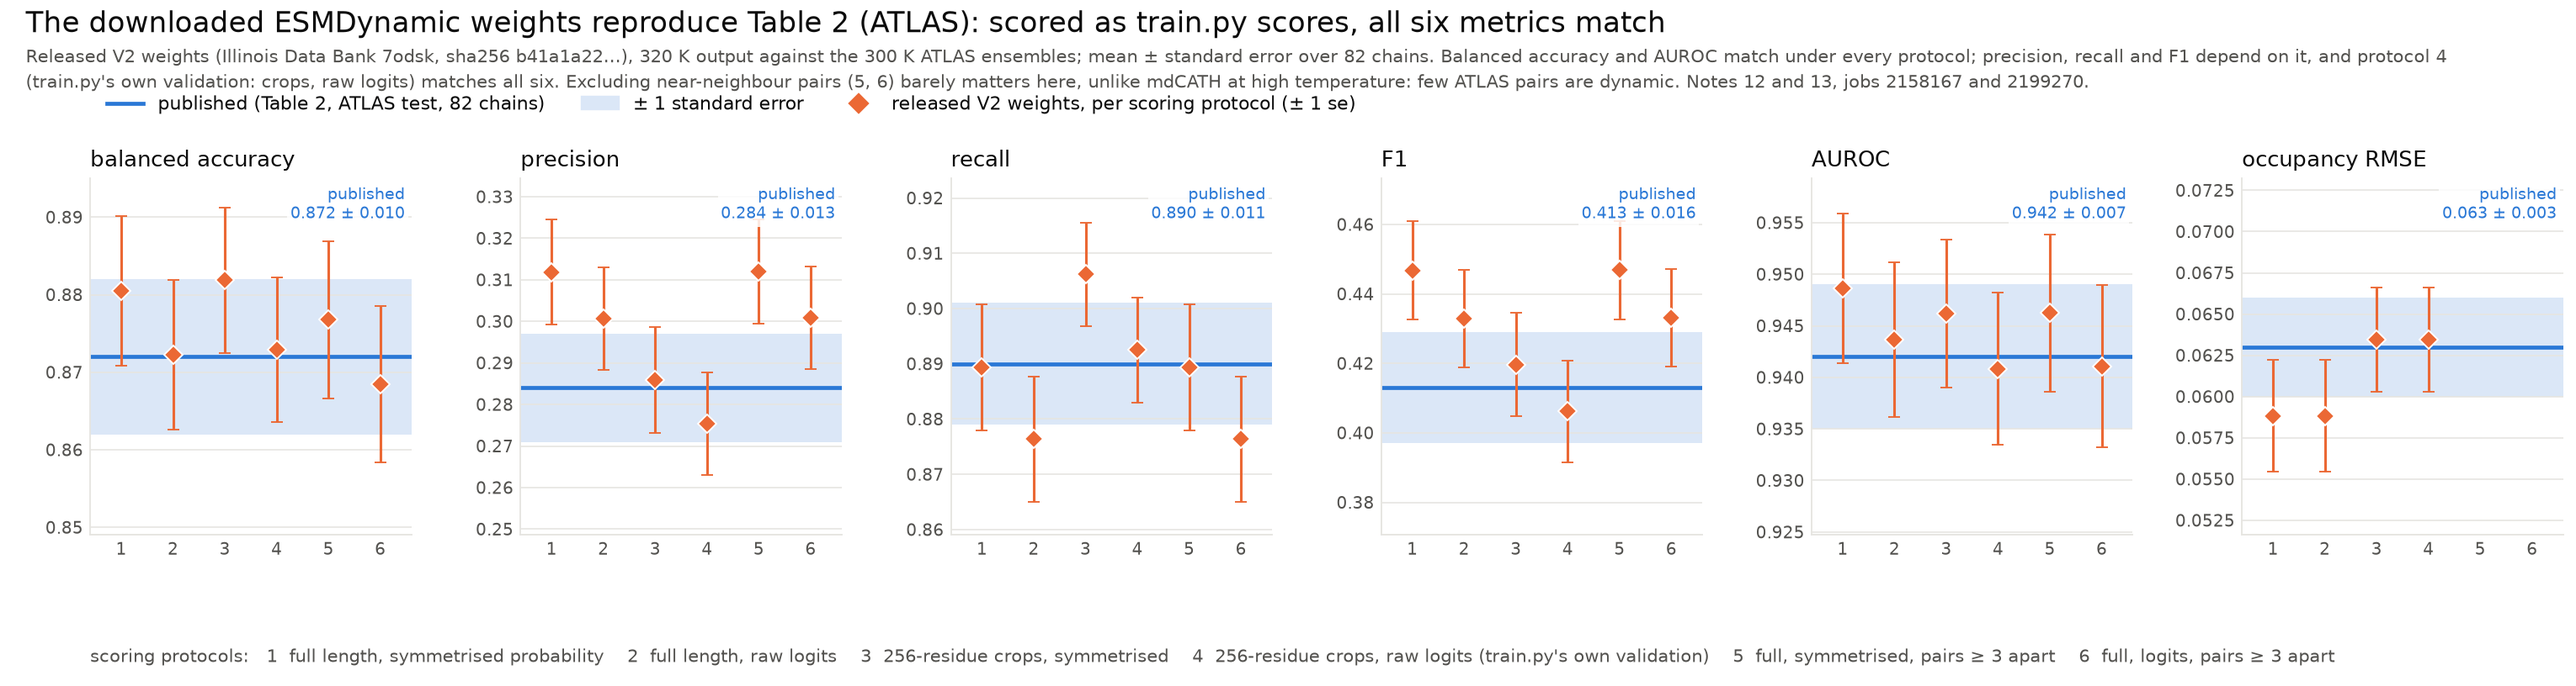
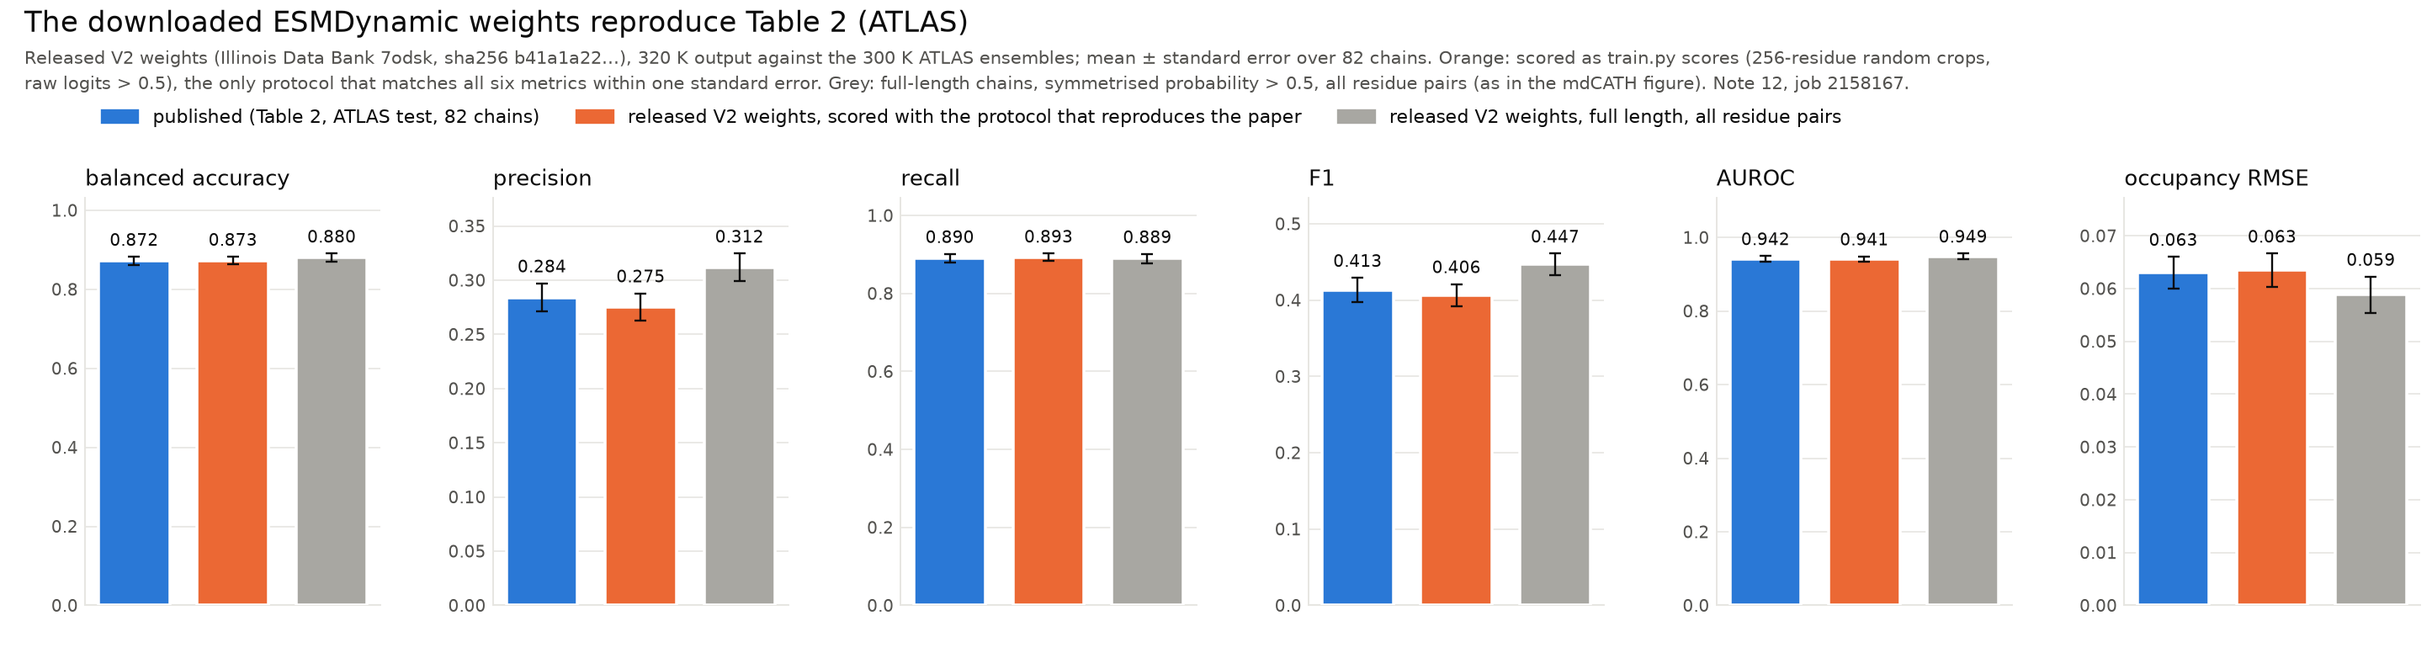
investigation: ATLAS figure as bars, same colours as the mdCATH figure

diff --git a/investigation/scripts/plot_atlas_table2_reproduction.py b/investigation/scripts/plot_atlas_table2_reproduction.py
@@ -1,78 +1,61 @@
-"""Figure: the released V2 weights reproduce Table 2 (ATLAS test, 82 chains) under every scoring protocol.
+"""Figure: the released V2 weights reproduce Table 2 (ATLAS test, 82 chains).
 
     python investigation/scripts/plot_atlas_table2_reproduction.py
         [--out investigation/figures/reproduction/13_atlas_table2_reproduction.png]
 
-ATLAS has one MD temperature (300 K; scored against the model's 320 K output), so instead of
-temperature the x-axis is the scoring protocol. Each panel: the published value as a band
-(± 1 se), the released weights under each protocol as points (± 1 se):
+Bars per Table 2 metric, in the same colours as the mdCATH figure
+(plot_si_table6_reproduction.py):
 
-  full / sym           whole chain, symmetrised probability > 0.5, all residue pairs
-  full / logits        whole chain, sigmoid of the unsymmetrised logits > 0.5
-  crop / sym, logits   train.py's 256-residue random crop (5 draws per long chain)
-  full / sym, ≥3       whole chain, pairs |i - j| >= 3 (the mdCATH SI Table 6 protocol, note 13)
-  full / logits, ≥3
+  blue    published, Table 2
+  orange  released weights, scored with the protocol that reproduces the paper. For ATLAS that is
+          train.py's own validation scoring: 256-residue random crops (5 draws per long chain),
+          sigmoid of the unsymmetrised logits > 0.5, all pairs of the crop -- the only protocol
+          that matches all six metrics (note 12)
+  grey    released weights, full-length chains, symmetrised probability > 0.5, all residue pairs
+          (the same definition as the mdCATH figure's grey line)
 
-From results/12_eval_protocol_atlas.json (note 12, job 2158167) and
-results/13_eval_pairset_atlas.json (note 13, job 2199270). The pair-set runs did not score
-occupancy RMSE, so that panel has the first four protocols only.
+Mean ± standard error over the 82 chains; 320 K output against the 300 K ATLAS ensembles.
+From results/12_eval_protocol_atlas.json (note 12, job 2158167).
 """
 import argparse
 import json
 from pathlib import Path
 
 INK, INK_2, MUTED, GRID = "#0b0b0b", "#52514e", "#8a8985", "#e6e5e1"
-PUB, OURS, PUB_BAND = "#2a78d6", "#eb6834", "#dbe7f7"
+PUB, OURS, ALL = "#2a78d6", "#eb6834", "#a8a7a2"     # as in the mdCATH figure
 METRICS = [("bal_acc", "balanced accuracy"), ("precision", "precision"), ("recall", "recall"),
            ("f1", "F1"), ("auroc", "AUROC"), ("rmse", "occupancy RMSE")]
-PROTOCOLS = [  # label, file, key
-    ("1", "12", "full/sym/320K"),
-    ("2", "12", "full/unsym/320K"),
-    ("3", "12", "crop256/sym/320K"),
-    ("4", "12", "crop256/unsym/320K"),
-    ("5", "13", "sym/k3/320K"),
-    ("6", "13", "unsym/k3/320K"),
-]
 
 
 def main():
     ap = argparse.ArgumentParser(description=__doc__.split("\n")[0])
-    ap.add_argument("--results", default="investigation/results")
+    ap.add_argument("--results", default="investigation/results/12_eval_protocol_atlas.json")
     ap.add_argument("--out", default="investigation/figures/reproduction/13_atlas_table2_reproduction.png")
     args = ap.parse_args()
-    res = Path(args.results)
-    r12 = json.loads((res / "12_eval_protocol_atlas.json").read_text())
-    r13 = json.loads((res / "13_eval_pairset_atlas.json").read_text())
-    src = {"12": r12["summary"], "13": r13["summary"]}
-    pub = r12["published"]["320"]
+    r = json.loads(Path(args.results).read_text())
+    pub = r["published"]["320"]
+    paper_protocol = r["summary"]["crop256/unsym/320K"]
+    all_pairs = r["summary"]["full/sym/320K"]
 
     import matplotlib
     matplotlib.use("Agg")
     import matplotlib.pyplot as plt
 
-    fig, axes = plt.subplots(1, 6, figsize=(18, 4.8), facecolor="white")
-    fig.subplots_adjust(top=0.74, bottom=0.22, left=0.035, right=0.995, wspace=0.34)
+    fig, axes = plt.subplots(1, 6, figsize=(17, 4.6), facecolor="white")
+    fig.subplots_adjust(top=0.70, bottom=0.08, left=0.035, right=0.995, wspace=0.38)
+    series = [(PUB, lambda m: tuple(pub[m])),
+              (OURS, lambda m: (paper_protocol[m]["mean"], paper_protocol[m]["se"])),
+              (ALL, lambda m: (all_pairs[m]["mean"], all_pairs[m]["se"]))]
     for ax, (m, title) in zip(axes, METRICS):
-        pm, ps = pub[m]
-        ax.axhspan(pm - ps, pm + ps, color=PUB_BAND, zorder=0, lw=0)
-        ax.axhline(pm, color=PUB, lw=2, zorder=1)
-        xs, ys = [], []
-        for i, (lab, f, key) in enumerate(PROTOCOLS):
-            cell = src[f].get(key, {}).get(m)
-            if cell is None:
-                continue
-            ax.errorbar(i, cell["mean"], yerr=cell["se"], color=OURS, marker="D", ms=6.5, lw=0,
-                        elinewidth=1.3, capsize=3, mec="white", mew=0.8, zorder=3)
-            xs.append(i); ys.append(cell["mean"])
-        ax.set_xticks(range(len(PROTOCOLS)))
-        ax.set_xticklabels([p[0] for p in PROTOCOLS], fontsize=9.5, color=INK, rotation=0)
-        ax.set_xlim(-0.6, len(PROTOCOLS) - 0.4)
-        lo, hi = min(ys + [pm - ps]), max(ys + [pm + ps])
-        pad = (hi - lo) * 0.45 + 0.004
-        ax.set_ylim(lo - pad, hi + pad)
+        vals = [get(m) for _, get in series]
+        top = max(v + se for v, se in vals)
+        for i, ((col, _), (v, se)) in enumerate(zip(series, vals)):
+            ax.bar(i, v, width=0.72, color=col, zorder=3, edgecolor="white", linewidth=1.5)
+            ax.errorbar(i, v, yerr=se, color=INK, capsize=3, elinewidth=1, zorder=4)
+            ax.text(i, v + se + top * 0.02, f"{v:.3f}", ha="center", va="bottom", fontsize=8.6, color=INK)
+        ax.set_ylim(0, top * 1.16)
+        ax.set_xticks([])
         ax.set_title(title, loc="left", fontsize=11, color=INK)
-        ax.text(0.98, 0.98, f"published\n{pm:.3f} ± {ps:.3f}", transform=ax.transAxes, fontsize=8, color=PUB,
-                va="top", ha="right", bbox=dict(fc="white", ec="none", alpha=0.85, pad=1.5))
         ax.grid(axis="y", color=GRID, lw=0.7, zorder=0)
         ax.set_axisbelow(True)
         for side in ("top", "right"):
@@ -80,26 +63,17 @@ def main():
         for side in ("left", "bottom"):
             ax.spines[side].set_color(GRID)
         ax.tick_params(colors=INK_2, labelsize=8.3, length=0)
-    from matplotlib.lines import Line2D
     from matplotlib.patches import Patch
-    fig.legend(handles=[Line2D([], [], color=PUB, lw=2, label="published (Table 2, ATLAS test, 82 chains)"),
-                        Patch(color=PUB_BAND, label="± 1 standard error"),
-                        Line2D([], [], color=OURS, lw=0, marker="D", ms=6.5,
-                               label="released V2 weights, per scoring protocol (± 1 se)")],
-               loc="upper left", bbox_to_anchor=(0.035, 0.885), ncol=3, frameon=False, fontsize=9.2,
-               labelcolor=INK)
-    fig.text(0.01, 0.985, "The downloaded ESMDynamic weights reproduce Table 2 (ATLAS): scored as train.py scores, all six metrics match",
-             fontsize=14.5, color=INK, va="top")
-    fig.text(0.01, 0.935, "Released V2 weights (Illinois Data Bank 7odsk, sha256 b41a1a22…), 320 K output against the "
-             "300 K ATLAS ensembles; mean ± standard error over 82 chains. Balanced accuracy and AUROC match under every protocol; "
-             "precision, recall and F1 depend on it, and protocol 4\n(train.py's own validation: crops, raw logits) matches "
-             "all six. "
-             "Excluding near-neighbour pairs (5, 6) barely matters here, unlike mdCATH at high temperature: few ATLAS pairs "
-             "are dynamic. Notes 12 and 13, jobs 2158167 and 2199270.",
+    fig.legend(handles=[Patch(color=PUB, label="published (Table 2, ATLAS test, 82 chains)"),
+                        Patch(color=OURS, label="released V2 weights, scored with the protocol that reproduces the paper"),
+                        Patch(color=ALL, label="released V2 weights, full length, all residue pairs")],
+               loc="upper left", bbox_to_anchor=(0.035, 0.86), ncol=3, frameon=False, fontsize=9.2, labelcolor=INK)
+    fig.text(0.01, 0.985, "The downloaded ESMDynamic weights reproduce Table 2 (ATLAS)", fontsize=14.5, color=INK, va="top")
+    fig.text(0.01, 0.93, "Released V2 weights (Illinois Data Bank 7odsk, sha256 b41a1a22…), 320 K output against the 300 K "
+             "ATLAS ensembles; mean ± standard error over 82 chains. Orange: scored as train.py scores (256-residue random "
+             "crops,\nraw logits > 0.5), the only protocol that matches all six metrics within one standard error. Grey: "
+             "full-length chains, symmetrised probability > 0.5, all residue pairs (as in the mdCATH figure). Note 12, job 2158167.",
              fontsize=8.8, color=INK_2, va="top", linespacing=1.45)
-    fig.text(0.035, 0.035, "scoring protocols:   1  full length, symmetrised probability    2  full length, raw logits    "
-             "3  256-residue crops, symmetrised    4  256-residue crops, raw logits (train.py's own validation)    "
-             "5  full, symmetrised, pairs ≥ 3 apart    6  full, logits, pairs ≥ 3 apart", fontsize=8.8, color=INK_2)
     out = Path(args.out)
     out.parent.mkdir(parents=True, exist_ok=True)
     fig.savefig(out, dpi=170, facecolor="white")
